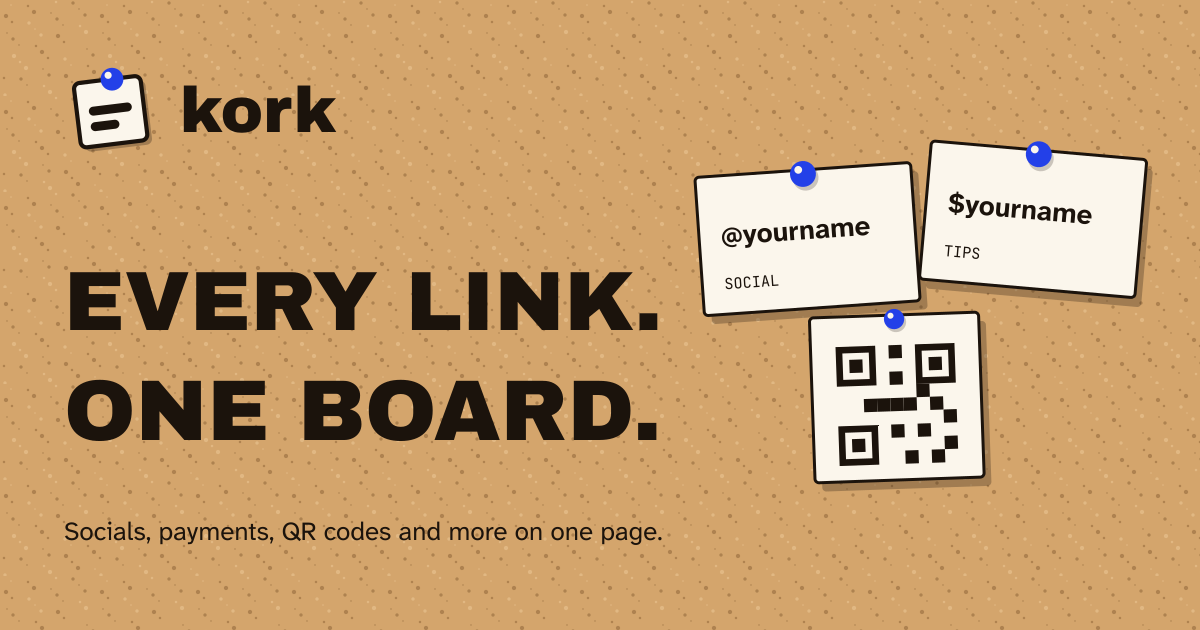
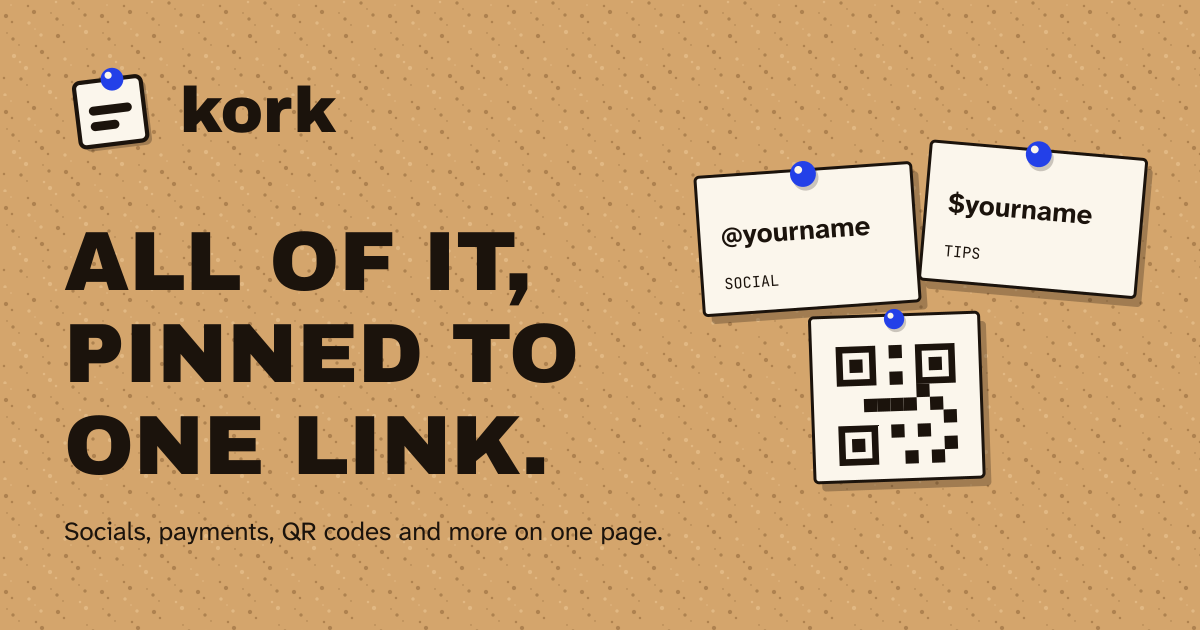
brand(landing): copy the re-rendered share card and describe it
og.png is a byte-for-byte copy of the SUBCULT Studio export
studio/branding/library/brands/kork/product/og.png (subcult-tv commit
2fbbd4c). The card now reads "ALL OF IT, / PINNED TO / ONE LINK." with
the line "Socials, payments, QR codes and more on one page." in place
of "EVERY LINK. ONE BOARD.".

  old sha256 1ad9fefcdaeaa2bc014c0e4ae32fd14d7632606e72010ce12f9ebb54d7bf8e2a
  new sha256 0b7aa68182aa906f73750c738b020ec766396c54309c6feae7343756a2ce2757

The landing gains og:image:alt, og:image width/height, twitter:image
and twitter:image:alt. The headline uses text-wrap: balance, which
removes the short "BIO, AND" line at 390px.

Changed region(s): [[0.0308, 0.3619, 0.555, 0.754]]

diff --git a/internal/render/templates/simple.html b/internal/render/templates/simple.html
@@ -14,7 +14,12 @@
 <meta property="og:description" content="Socials, payment buttons that open your own accounts, QR codes and tour dates at one address. Free, and no cut of your tips.">
 <meta property="og:url" content="{{.BaseURL}}/">
 <meta property="og:image" content="{{.BaseURL}}/static/brand/og.png">
+<meta property="og:image:width" content="1200">
+<meta property="og:image:height" content="630">
+<meta property="og:image:alt" content="Kork: all of it, pinned to one link. Socials, payments, QR codes and more on one page.">
 <meta name="twitter:card" content="summary_large_image">
+<meta name="twitter:image" content="{{.BaseURL}}/static/brand/og.png">
+<meta name="twitter:image:alt" content="Kork: all of it, pinned to one link. Socials, payments, QR codes and more on one page.">
 {{end}}
 <link rel="stylesheet" href="/static/site.css?v={{.AssetVersion}}">
 </head>

diff --git a/internal/render/static/site.css b/internal/render/static/site.css
@@ -35,7 +35,7 @@ a { color: var(--ink); }
 .kicker { margin: 0 0 1rem; font: .85rem var(--mono); letter-spacing: .06em; }
 h1 { margin: 0 0 1.25rem; font: clamp(2.6rem, 6.2vw, 4.6rem)/.95 var(--display); text-transform: uppercase; letter-spacing: -.01em; }
 /* The landing headline is a full sentence, so it runs smaller than a slogan. */
-.hero h1 { font-size: clamp(2rem, 4.4vw, 3.3rem); line-height: 1; }
+.hero h1 { font-size: clamp(2rem, 4.4vw, 3.3rem); line-height: 1; text-wrap: balance; }
 .message h1 { text-transform: none; font-size: clamp(2.4rem, 6vw, 4rem); }
 .lede { max-width: 52ch; margin: 0 0 2rem; font-size: 1.15rem; }
 .actions { display: flex; flex-wrap: wrap; align-items: center; gap: 1.25rem; margin: 0; }
